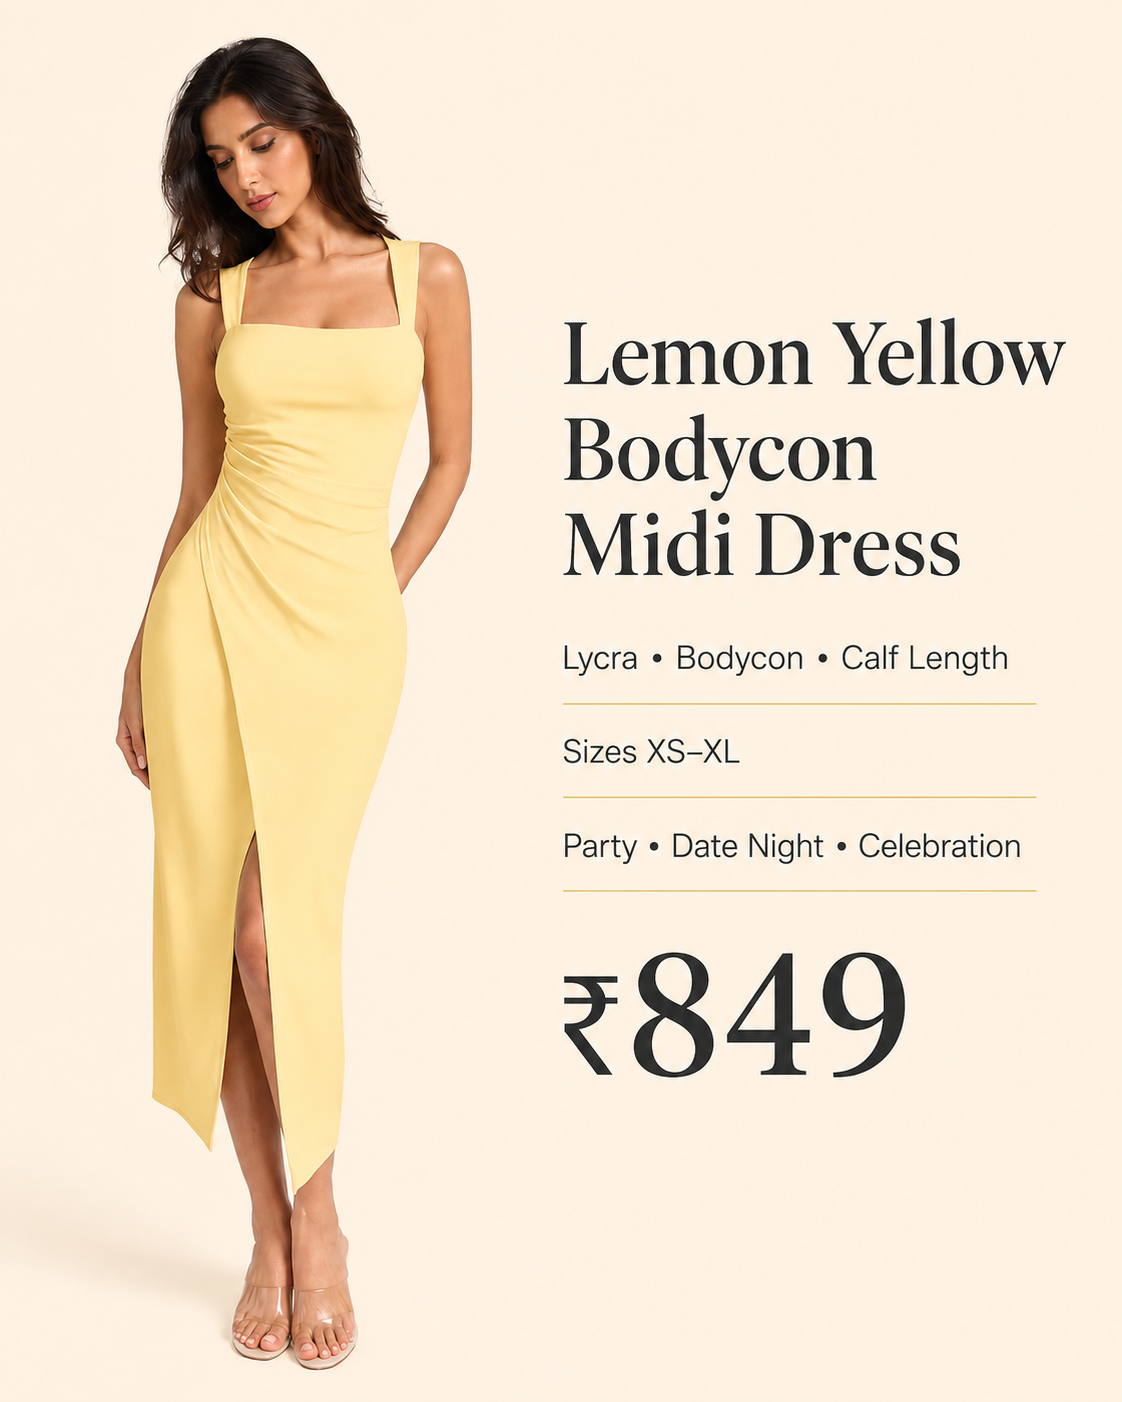
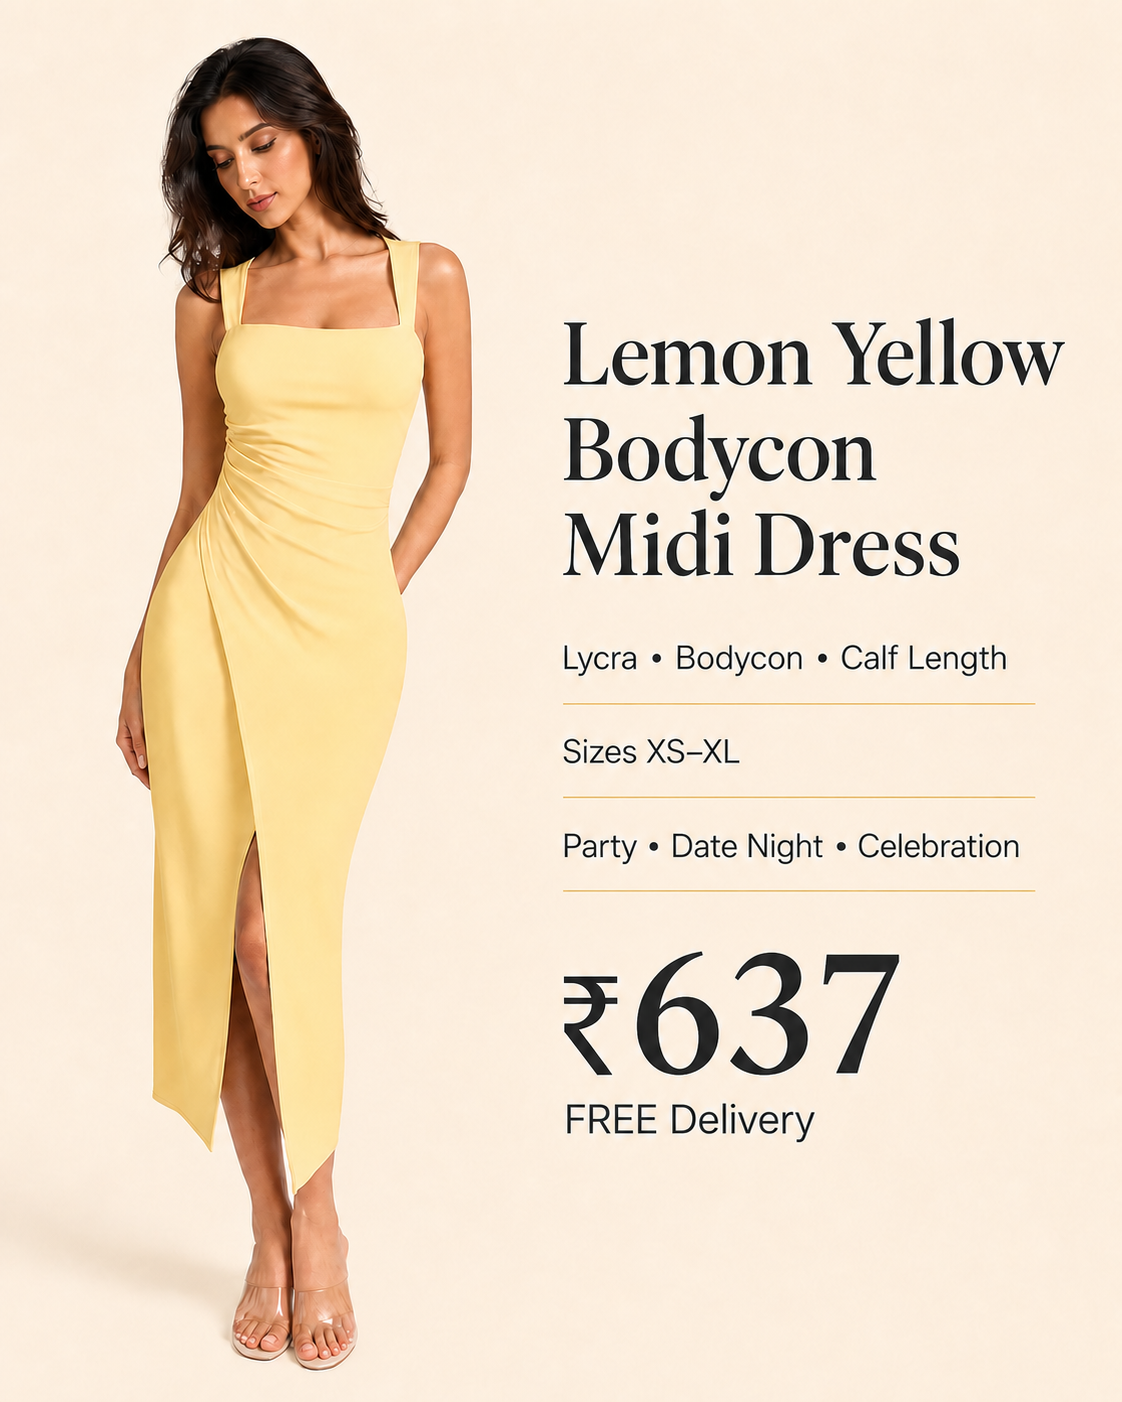
Verify Product 10 source and pricing

diff --git a/lib/products.ts b/lib/products.ts
@@ -12,7 +12,7 @@ export const products:Product[]=[
 {id:"MSH-WES-007",slug:"pink-tiered-georgette-maxi-dress",name:"Pink Tiered Georgette Maxi Dress",category:"Dresses",collection:"Party & Brunch",occasion:"Party / brunch",sellingPrice:676,images:imageSet("MSH-WES-007"),sizes:["S","M","L","XL","XXL"],variants:[{sku:"MSH-WES-007-S",size:"S",colour:"Pink floral",price:676,available:true},{sku:"MSH-WES-007-M",size:"M",colour:"Pink floral",price:676,available:true},{sku:"MSH-WES-007-L",size:"L",colour:"Pink floral",price:676,available:true},{sku:"MSH-WES-007-XL",size:"XL",colour:"Pink floral",price:676,available:true},{sku:"MSH-WES-007-XXL",size:"XXL",colour:"Pink floral",price:676,available:true}],material:"Georgette",colour:"Pink floral",description:"A pink floral georgette maxi dress with a square neckline, shirred bodice, short puff sleeves and tiered ruffle skirt.",featured:true,bestSeller:true},
 {id:"MSH-WES-008",slug:"black-floral-fit-and-flare-maxi-dress",name:"Black Floral Fit-and-Flare Maxi Dress",category:"Dresses",collection:"Casual Western",occasion:"Casual / party",sellingPrice:479,images:imageSet("MSH-WES-008"),sizes:["S","M","L","XL","XXL"],variants:[{sku:"MSH-WES-008-S",size:"S",colour:"Black with white floral print",price:489,available:true},{sku:"MSH-WES-008-M",size:"M",colour:"Black with white floral print",price:479,available:true},{sku:"MSH-WES-008-L",size:"L",colour:"Black with white floral print",price:489,available:true},{sku:"MSH-WES-008-XL",size:"XL",colour:"Black with white floral print",price:489,available:true},{sku:"MSH-WES-008-XXL",size:"XXL",colour:"Black with white floral print",price:489,available:true}],material:"Cotton Blend",colour:"Black with white floral print",description:"A black cotton-blend fit-and-flare maxi with tiny white florals, slim straps, an off-shoulder gathered neckline, short puff sleeves and a smocked waist.",bestSeller:true},
 {id:"MSH-WES-009",slug:"white-floral-puff-sleeve-mini-dress",name:"White Floral Puff-Sleeve Mini Dress",category:"Dresses",collection:"College & Casual",occasion:"Casual party",sellingPrice:758,images:imageSet("MSH-WES-009"),sizes:["S","M","L","XL"],material:"Rayon",colour:"White",description:"A playful floral mini with puff sleeves and a softly flared shape.",newArrival:true},
-{id:"MSH-WES-010",slug:"lemon-yellow-bodycon-midi-dress",name:"Lemon Yellow Bodycon Midi Dress",category:"Dresses",collection:"Evening Party",occasion:"Date night",sellingPrice:837,images:imageSet("MSH-WES-010"),sizes:["XS","S","M","L","XL"],material:"Lycra",colour:"Lemon Yellow",description:"A clean bodycon midi with a square neckline and front slit."},
+{id:"MSH-WES-010",slug:"lemon-yellow-bodycon-midi-dress",name:"Lemon Yellow Bodycon Midi Dress",category:"Dresses",collection:"Evening Party",occasion:"Party / date night",sellingPrice:637,images:imageSet("MSH-WES-010"),sizes:["XS","S","M","L","XL"],variants:[{sku:"MSH-WES-010-XS",size:"XS",colour:"Lemon Yellow",price:637,available:true},{sku:"MSH-WES-010-S",size:"S",colour:"Lemon Yellow",price:637,available:true},{sku:"MSH-WES-010-M",size:"M",colour:"Lemon Yellow",price:637,available:true},{sku:"MSH-WES-010-L",size:"L",colour:"Lemon Yellow",price:637,available:true},{sku:"MSH-WES-010-XL",size:"XL",colour:"Lemon Yellow",price:637,available:true}],material:"Lycra",colour:"Lemon Yellow",description:"A solid lemon-yellow Lycra bodycon dress with wide shoulder straps, a square neckline, side-waist ruching and an asymmetric wrap-front slit."},
 {id:"MSH-EXP-011",slug:"sky-blue-cotton-kurta-pant-set",name:"Sky Blue Cotton Kurta & Pant Set",category:"Kurta Sets",collection:"Everyday Ethnic",occasion:"Office edit",sellingPrice:685,images:imageSet("MSH-EXP-011"),sizes:["M","L","XL","XXL","3XL"],material:"Cotton",colour:"Sky Blue",description:"A breathable sky-blue cotton kurta and pant pairing for everyday office, college and casual wear.",newArrival:true},
 {id:"MSH-EXP-012",slug:"maroon-printed-flared-gown-dupatta",name:"Maroon Printed Flared Gown with Dupatta",category:"Gowns",collection:"Wedding & Festive",occasion:"Festive look",sellingPrice:788,images:imageSet("MSH-EXP-012"),sizes:["S","M","L","XL"],material:"Poly Georgette",colour:"Maroon",description:"A graceful printed flared gown with a coordinated dupatta for festive gatherings and special occasions.",newArrival:true},
 {id:"MSH-EXP-013",slug:"checked-a-line-maxi-dress",name:"Checked A-Line Maxi Dress",category:"Dresses",collection:"Casual Western",occasion:"Everyday style",sellingPrice:726,images:imageSet("MSH-EXP-013"),sizes:["S","M","L","XL","XXL"],material:"Printed Fabric",colour:"Green/Navy Check",description:"A relaxed checked A-line maxi with a collared waist detail for easy everyday styling.",newArrival:true},

diff --git a/lib/internal-pricing.server.ts b/lib/internal-pricing.server.ts
@@ -17,7 +17,9 @@ export const sourceCostsBySku: Record<string, number> = {
   "MSH-WES-007-XL": 476, "MSH-WES-007-XXL": 476,
   "MSH-WES-008-S": 289, "MSH-WES-008-M": 279, "MSH-WES-008-L": 289,
   "MSH-WES-008-XL": 289, "MSH-WES-008-XXL": 289,
-  "MSH-WES-009": 558, "MSH-WES-010": 637,
+  "MSH-WES-009": 558,
+  "MSH-WES-010-XS": 437, "MSH-WES-010-S": 437, "MSH-WES-010-M": 437,
+  "MSH-WES-010-L": 437, "MSH-WES-010-XL": 437,
   "MSH-EXP-011": 485, "MSH-EXP-012": 588, "MSH-EXP-013": 526, "MSH-EXP-014": 679,
   "MSH-EXP-016-XS": 480, "MSH-EXP-016-S": 490, "MSH-EXP-016-M": 490,
   "MSH-EXP-016-L": 490, "MSH-EXP-016-XL": 490, "MSH-EXP-016-XXL": 490, "MSH-EXP-016-XXXL": 490,

diff --git a/data/catalogue-changelog.md b/data/catalogue-changelog.md
@@ -182,3 +182,5 @@
 - Reopened the previously rejected Product 3 candidate after the Meesho gallery became directly inspectable. Source images confirm the exact square-neck sleeveless peach motif rayon kurta and white palazzos despite inconsistent round-neck/dupatta text metadata. Captured seller Karikh Garments, 4.3 product rating, 6,754 reviews, 7-day returns, active selectors and flat ₹275 pricing. Published only measurement-supported S–XXL at ₹475 retail, corrected the information card to Sizes S–XXL and FREE delivery, and promoted the canonical record to Approved. Deployment, live cart/COD QA and Meta readiness remain gated.
 - Deployed Product 3 and verified its production page, five supported size controls, size-M ₹475 selection and cart line, FREE delivery, selected COD checkout, all six HTTP-200 image assets, and zero captured client warnings/errors. Promoted it to `Live` and Meta `Ready`; regenerated the local feed only and did not upload it.
 - Verified Product 8 on production after deployment: all six images render, M remains ₹479, S/L/XL/XXL remain ₹489, size S persists at ₹489 through the live cart, delivery remains FREE, and COD is selected at checkout. Promoted Product 8 to `Live` and Meta `Ready`; the feed remains local and no order or Meta upload was submitted.
+- Found and accepted Product 10's exact live Meesho source (`8hnm1g`) after matching the primary, rear and alternate source images to the canonical lemon-yellow Lycra bodycon dress, wide straps, square neckline, side-waist ruching and asymmetric wrap-front slit. Captured flat ₹437 pricing for XS–XL, seller JANIKAA FASHION, 4.2 rating, 3,888 reviews and 7-day returns; corrected every retail variant to ₹637 and replaced the stale ₹849 information card with ₹637 and FREE Delivery. Deployment, live cart/COD QA and Meta readiness remain gated.
+- Browser-verified Product 10 locally at ₹637 for size M through product detail, add-to-bag, cart and checkout. Delivery remained FREE, COD remained selected, all six images rendered, and no order was submitted. Production and Meta readiness remain gated.
